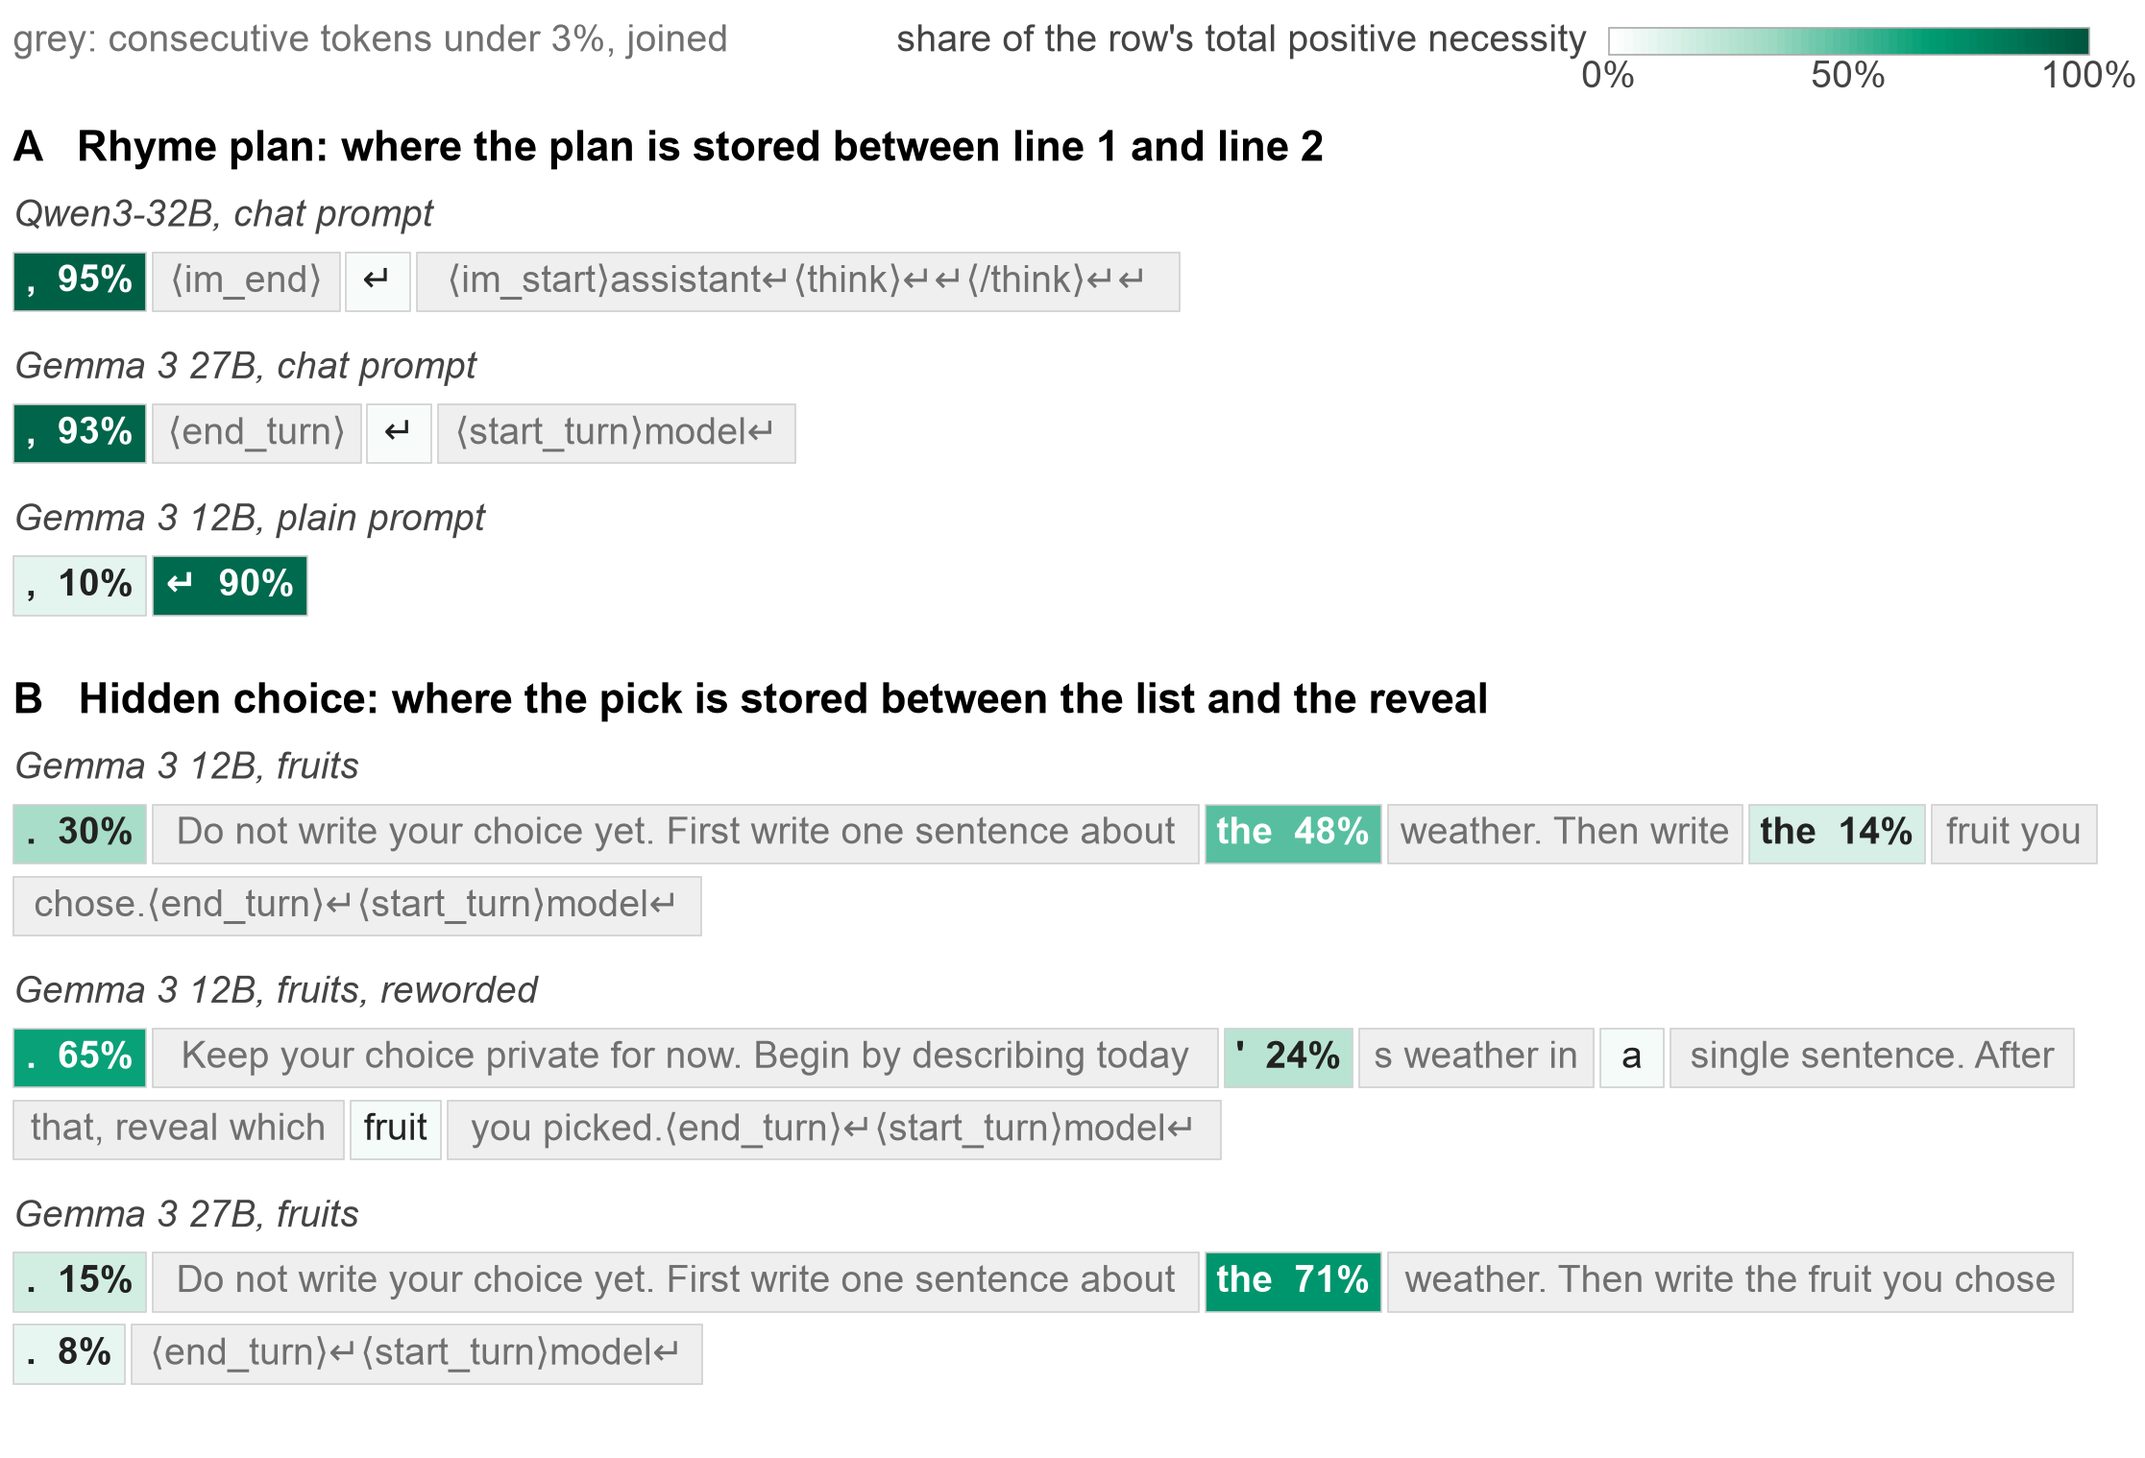
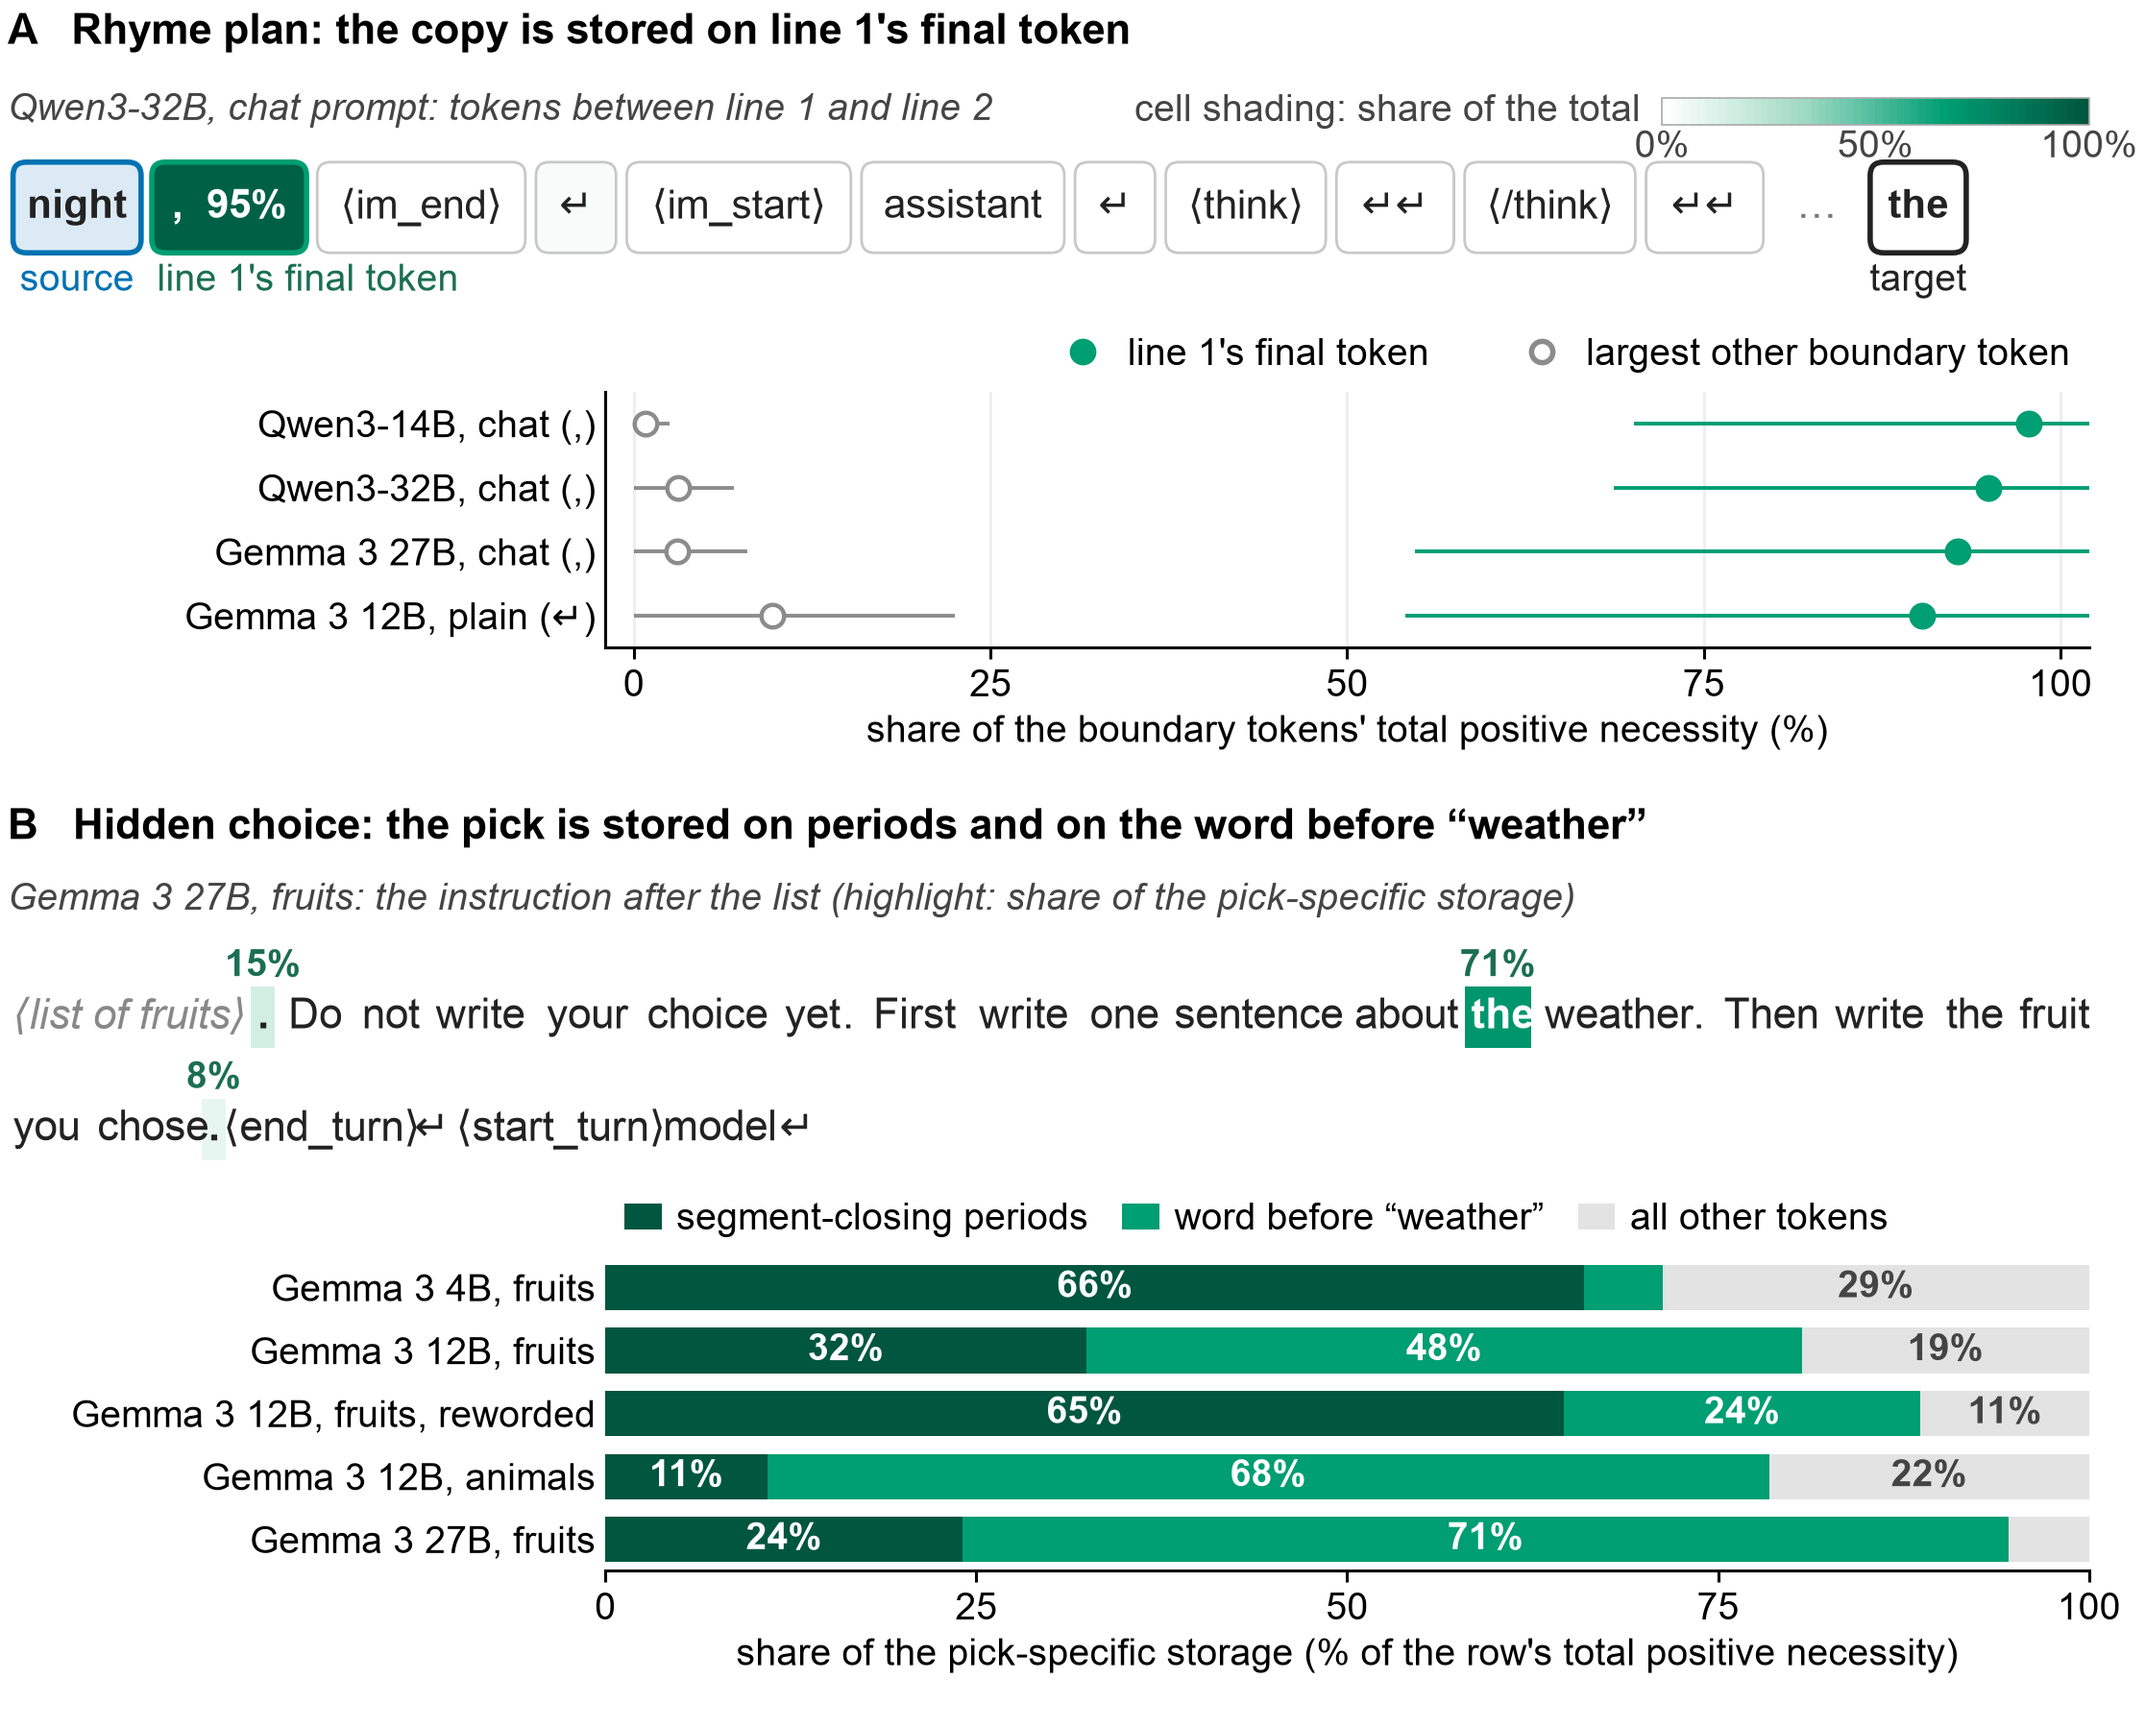
Appendix figures (per-token maps, computed-value panels); Figure 2 caption for the redesign

diff --git a/manuscript/figures/make_iclr_figures.py b/manuscript/figures/make_iclr_figures.py
@@ -722,9 +722,214 @@ def storage_figure(main, name):
     save(fig, name)
 
 
+def pos_share(vals):
+    tot = sum(max(v, 0.0) for v in vals) or 1e-9
+    return [max(v, 0.0) / tot for v in vals], tot
+
+
+def line_end_index(toks):
+    """Index of line 1's final token: the comma before a chat template, or the line break of a plain prompt."""
+    if len(toks) > 1 and pretty(toks[1]) == "↵":
+        return 1
+    return 0
+
+
+def colourbar_pts(ax, x, y, w=80.0, h=5.0, label="share of the row's total positive necessity"):
+    for i in range(60):
+        ax.add_patch(Rectangle((x + i * w / 60, y), w / 60 + 0.1, h, fc=CMAP3(i / 59), ec="none"))
+    ax.add_patch(Rectangle((x, y), w, h, fc="none", ec="#AAAAAA", lw=0.3))
+    for v in (0, 50, 100):
+        ax.text(x + w * v / 100, y + h + 1.0, f"{v}%", fontsize=7, ha="center", va="top", color="#444444")
+    ax.text(x - 4, y + h / 2, label, fontsize=7, ha="right", va="center", color="#444444")
+
+
 def fig3():
-    storage_figure(True, "iclr_fig3_storage_sites.png")
     storage_figure(False, "iclr_figA_storage_all.png")
+    Hpt = 318.0
+    Wpt = W * 72
+    fig = plt.figure(figsize=(W, Hpt / 72))
+    bg = fig.add_axes([0, 0, 1, 1])
+    bg.set_xlim(0, Wpt)
+    bg.set_ylim(Hpt, 0)
+    bg.axis("off")
+    bg.set_zorder(0)
+
+    def axes_pts(x0, y0, w, h):  # rectangle in points from the top-left -> figure axes
+        return fig.add_axes([x0 / Wpt, 1 - (y0 + h) / Hpt, w / Wpt, h / Hpt])
+
+    colourbar_pts(bg, Wpt - 86, 17.0, label="cell shading: share of the total")
+    bg.text(0, 1, "A   Rhyme plan: the copy is stored on line 1's final token", fontsize=8, weight="bold",
+            va="top")
+    # One annotated example: Qwen3-32B, chat prompt.
+    ex = load(CR / "Qwen3-32B" / "relay_boundary_summary.json")
+    y = 16.0
+    if ex:
+        toks = [x["token"] for x in ex["necessity_by_token"]]
+        sh, _ = pos_share([x["mean"] for x in ex["necessity_by_token"]])
+        k = line_end_index(toks)
+        bg.text(0, y, "Qwen3-32B, chat prompt: tokens between line 1 and line 2", fontsize=7,
+                style="italic", color="#444444", va="top")
+        y += 13
+        cells = [("night", "src", None)] + [(pretty(t), "end" if i == k else "tpl", sh[i])
+                                            for i, t in enumerate(toks)] + [("…", "gap", None), ("the", "tgt", None)]
+        fs, ch, gap = 7.5, 17.0, 2.0
+        widths = [text_width(c[0] + (f"  {100 * c[2]:.0f}%" if c[1] == "end" else ""), fs) + 8 for c in cells]
+        scale = min(1.0, (Wpt - 4 - gap * len(cells)) / sum(widths))
+        x = 1.0
+        for (lab, kind, v), w in zip(cells, widths):
+            w *= scale
+            if kind == "gap":
+                bg.text(x + w / 2, y + ch / 2, lab, fontsize=fs, ha="center", va="center", color="#777777")
+                x += w + gap
+                continue
+            fc = {"src": "#DCEAF5", "tgt": "white"}.get(kind, CMAP3(min(v or 0.0, 1.0)))
+            ec = {"src": COL["retrieval"], "tgt": COL["ink"], "end": COL["storage"]}.get(kind, "#C8C8C8")
+            bg.add_patch(FancyBboxPatch((x, y), w, ch, boxstyle="round,pad=0,rounding_size=2.5", fc=fc, ec=ec,
+                                        lw=1.0 if kind in ("src", "tgt", "end") else 0.5))
+            txt = f"{lab}  {100 * v:.0f}%" if kind == "end" else lab
+            bg.text(x + w / 2, y + ch / 2, txt, fontsize=fs, ha="center", va="center",
+                    color="white" if kind == "end" and v > 0.45 else COL["ink"],
+                    weight="bold" if kind in ("src", "tgt", "end") else "normal")
+            if kind in ("src", "tgt"):
+                bg.text(x + w / 2, y + ch + 2, "source" if kind == "src" else "target",
+                        fontsize=7, ha="center", va="top",
+                        color=COL["retrieval"] if kind == "src" else COL["ink"])
+            if kind == "end":
+                bg.text(x + 1, y + ch + 2, "line 1's final token", fontsize=7, ha="left", va="top",
+                        color="#1B6E53")
+            x += w + gap
+        y += ch + 26
+    # Dot strip: share on the final token vs the largest other boundary token.
+    rowsA = []
+    for run, lab in [("Qwen3-14B", "Qwen3-14B, chat"), ("Qwen3-32B", "Qwen3-32B, chat"),
+                     ("gemma-3-27b-it", "Gemma 3 27B, chat"), ("gemma-3-12b-it-plain", "Gemma 3 12B, plain"),
+                     ("gemma-3-27b-it-plain", "Gemma 3 27B, plain")]:
+        sm = load(CR / run / "relay_boundary_summary.json")
+        if not (sm and sm.get("necessity_by_token")):
+            continue
+        nb = sm["necessity_by_token"]
+        toks = [x["token"] for x in nb]
+        sh, tot = pos_share([x["mean"] for x in nb])
+        k = line_end_index(toks)
+        others = [i for i in range(len(nb)) if i != k]
+        j = max(others, key=lambda i: sh[i]) if others else None
+        fin = (100 * sh[k], 100 * max(nb[k]["lo"], 0) / tot, 100 * nb[k]["hi"] / tot)
+        oth = (100 * sh[j], 100 * max(nb[j]["lo"], 0) / tot, 100 * max(nb[j]["hi"], 0) / tot) if j is not None \
+            else (NAN, NAN, NAN)
+        rowsA.append((f"{lab} ({pretty(toks[k])})", fin, oth, pretty(toks[j]) if j is not None else ""))
+    row_h = 11.0
+    if rowsA:
+        hA = row_h * len(rowsA) + 4
+        ax = axes_pts(112, y, Wpt - 112 - 6, hA)
+        for i, (lab, fin, oth, olab) in enumerate(rowsA):
+            dot(ax, i, fin, COL["storage"], "o", True, s=18, horizontal=True)
+            dot(ax, i, oth, COL["grey"], "o", False, s=18, horizontal=True)
+        ax.set_yticks(range(len(rowsA)))
+        ax.set_yticklabels([r[0] for r in rowsA])
+        ax.set_ylim(len(rowsA) - 0.5, -0.5)
+        ax.set_xlim(-2, 102)
+        ax.set_xticks([0, 25, 50, 75, 100])
+        ax.tick_params(axis="y", length=0)
+        ax.grid(axis="x", color="#EEEEEE", lw=0.5)
+        ax.set_axisbelow(True)
+        ax.set_xlabel("share of the boundary tokens' total positive necessity (%)")
+        hs = [Line2D([], [], ls="none", marker="o", ms=4, mfc=COL["storage"], mec=COL["storage"]),
+              Line2D([], [], ls="none", marker="o", ms=4, mfc="white", mec=COL["grey"])]
+        ax.legend(hs, ["line 1's final token", "largest other boundary token"], loc="lower right",
+                  bbox_to_anchor=(1.0, 1.0), ncol=2, handletextpad=0.2, borderaxespad=0.1)
+        y += hA + 26
+    # B. The hidden-choice instruction once, with its storage tokens highlighted.
+    y += 4
+    bg.text(0, y, "B   Hidden choice: the pick is stored on periods and on the word before \u201cweather\u201d",
+            fontsize=8, weight="bold", va="top")
+    y += 14
+    fr, fa, an = ("choice_replicate_fruits_localize_summary.json", "choice_replicate_fruits_localize_alt_summary.json",
+                  "choice_replicate_animals_localize_summary.json")
+    shown = None
+    for run, lab in (("gemma-3-27b-it", "Gemma 3 27B"), ("gemma-3-12b-it", "Gemma 3 12B")):
+        sm = load(HC / run / fr)
+        if sm and sm.get("necessity_by_token"):
+            shown = (lab, sm)
+            break
+    if shown:
+        lab, sm = shown
+        nb = sm["necessity_by_token"]
+        sh, _ = pos_share([x["mean"] for x in nb])
+        bg.text(0, y, f"{lab}, fruits: the instruction after the list (highlight: share of the pick-specific "
+                "storage)", fontsize=7, style="italic", color="#444444", va="top")
+        y += 12
+        fs, lh = 8.0, 21.0
+        x = 1.0
+        words = [("⟨list of fruits⟩ ", None, False)] + [(pretty(t) if t in PRETTY else t.replace("▁", "").replace("\n", "↵"),
+                                                         sh[i], t.startswith("▁")) for i, t in enumerate(nb and [q["token"] for q in nb])]
+        for wtxt, v, space in words:
+            wd = text_width(wtxt, fs)
+            if space:
+                x += text_width(" ", fs) + 1.0
+            if x + wd > Wpt - 4:
+                x, y = 1.0, y + lh
+            hi_ = v is not None and v >= 0.03
+            if hi_:
+                bg.add_patch(Rectangle((x - 1.2, y + 7.5), wd + 2.4, 11.5, fc=CMAP3(min(v, 1.0)), ec="none"))
+                bg.text(x + wd / 2, y + 7.0, f"{100 * v:.0f}%", fontsize=7, ha="center", va="bottom",
+                        color="#1B6E53", weight="bold")
+            bg.text(x, y + 13.25, wtxt, fontsize=fs, ha="left", va="center",
+                    color=("white" if hi_ and v > 0.45 else COL["ink"]) if v is not None else "#888888",
+                    weight="bold" if hi_ else "normal", style="normal" if v is not None else "italic")
+            x += wd + 0.8
+        y += lh + 16
+    # Composition per model and wording: periods, the word before "weather", everything else.
+    rowsB = []
+    for run, lab in (("gemma-3-4b-it", "Gemma 3 4B"), ("gemma-3-12b-it", "Gemma 3 12B"),
+                     ("gemma-3-27b-it", "Gemma 3 27B")):
+        for f, wl in ((fr, "fruits"), (fa, "fruits, reworded"), (an, "animals")):
+            sm = load(HC / run / f)
+            if not (sm and sm.get("necessity_by_token")):
+                continue
+            toks = [x["token"] for x in sm["necessity_by_token"]]
+            sh, _ = pos_share([x["mean"] for x in sm["necessity_by_token"]])
+            per = sum(v for t, v in zip(toks, sh) if t.strip() == ".")
+            wi = [i for i, t in enumerate(toks) if t.replace("▁", "") == "weather"]
+            fw = 0.0
+            if wi:
+                i = wi[0] - 1
+                while i >= 0 and toks[i].replace("▁", "") in ("the", "'", "s", "’"):
+                    fw += sh[i]
+                    i -= 1
+            rowsB.append((f"{lab}, {wl}", 100 * per, 100 * fw, 100 * max(1 - per - fw, 0.0)))
+    if rowsB:
+        hB = row_h * len(rowsB) + 4
+        ax = axes_pts(112, y, Wpt - 112 - 6, hB)
+        cols = [("#00563F", "segment-closing periods"), (COL["storage"], "word before \u201cweather\u201d"),
+                ("#E3E3E3", "all other tokens")]
+        for i, vals in enumerate(rowsB):
+            left = 0.0
+            for (c, lab), v in zip(cols, vals[1:]):
+                ax.barh(i, v, 0.72, left=left, color=c, lw=0, label=lab if i == 0 else None)
+                if v >= 9:
+                    ax.text(left + v / 2, i, f"{v:.0f}%", fontsize=7, ha="center", va="center",
+                            color="white" if c != "#E3E3E3" else "#444444", weight="bold")
+                left += v
+        ax.set_yticks(range(len(rowsB)))
+        ax.set_yticklabels([r[0] for r in rowsB])
+        ax.set_ylim(len(rowsB) - 0.5, -0.5)
+        ax.set_xlim(0, 100)
+        ax.set_xticks([0, 25, 50, 75, 100])
+        ax.tick_params(axis="y", length=0)
+        ax.spines["left"].set_visible(False)
+        ax.set_xlabel("share of the pick-specific storage (% of the row's total positive necessity)")
+        ax.legend(loc="lower left", bbox_to_anchor=(0.0, 1.0), ncol=3, handlelength=1.0, columnspacing=0.9,
+                  borderaxespad=0.1)
+        y += hB + 26
+    fig.set_size_inches(W, (y + 2) / 72)
+    Hn = y + 2
+    for a_ in fig.axes[1:]:
+        pos = a_.get_position()
+        y0 = (1 - pos.y1) * Hpt
+        a_.set_position([pos.x0, 1 - (y0 + pos.height * Hpt) / Hn, pos.width, pos.height * Hpt / Hn])
+    bg.set_position([0, 0, 1, 1])
+    bg.set_ylim(Hn, 0)
+    save(fig, "iclr_fig3_storage_sites.png")
 
 
 # --------------------------------------------------------------------------- Figure 4
